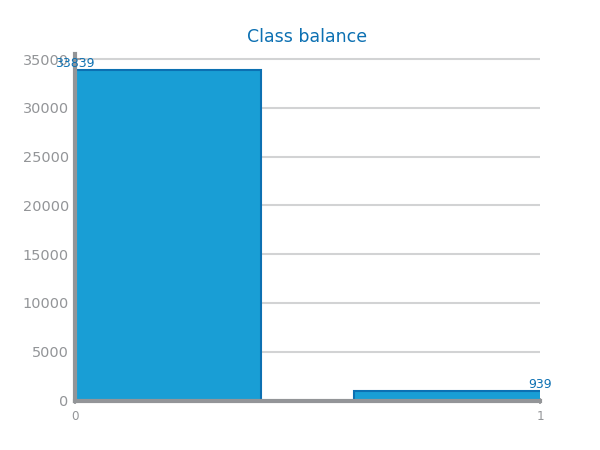
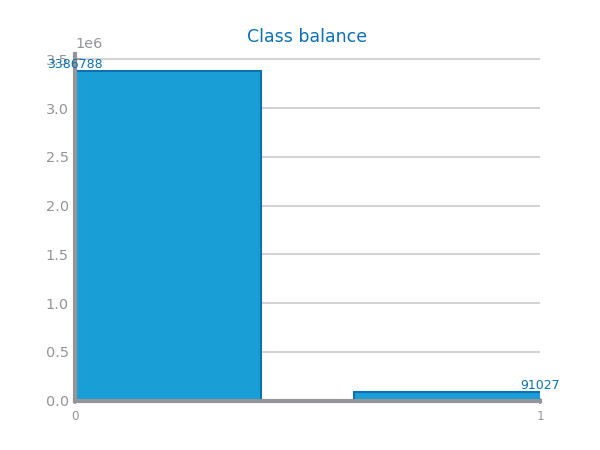
se a vida desse limões acho que o meu computador não conseguia fazer limonada

diff --git a/Data_Preparation/processing_balancing_security.py b/Data_Preparation/processing_balancing_security.py
@@ -6,7 +6,7 @@ from pandas import Series
 from imblearn.over_sampling import SMOTE
 
 file_tag = "class_ny_arrests"
-filename = f"Data/Scaling/train_{file_tag}_scaled_zscore_run6.csv"
+filename = f"Data/train_{file_tag}_scaled_zscore.csv"
 target = "CLASS"
 original: DataFrame = read_csv(filename, sep=",", decimal=".")
 
@@ -31,10 +31,11 @@ plot_bar_chart(
 savefig(f"./{file_tag}_class_balance.png")
 show()
 
+
 "apply oversampling"
 df_positives: Series = original[original[target] == positive_class]
 df_negatives: Series = original[original[target] == negative_class]
-
+'''
 df_pos_sample: DataFrame = DataFrame(
     df_positives.sample(len(df_negatives), replace=True)
 )
@@ -44,7 +45,7 @@ df_over.to_csv(f"Data/{file_tag}_oversampling.csv", index=False)
 print("Minority class=", positive_class, ":", len(df_pos_sample))
 print("Majority class=", negative_class, ":", len(df_negatives))
 print("Proportion:", round(len(df_pos_sample) / len(df_negatives), 2), ": 1")
-
+'''
 "apply undersampling"
 df_neg_sample: DataFrame = DataFrame(df_negatives.sample(len(df_positives)))
 df_under: DataFrame = concat([df_positives, df_neg_sample], axis=0)
@@ -58,7 +59,7 @@ print("Proportion:", round(len(df_positives) / len(df_neg_sample), 2), ": 1")
 #"""SMOTE"""
 #
 RANDOM_STATE = 42
-
+'''
 smote: SMOTE = SMOTE(sampling_strategy="minority", random_state=RANDOM_STATE)
 y = original.pop(target).values
 X: ndarray = original.values
@@ -76,3 +77,4 @@ print(
     ": 1",
 )
 print(df_smote.shape)
+'''

diff --git a/Classification/generating_tests_security.py b/Classification/generating_tests_security.py
@@ -4,18 +4,23 @@ from sklearn.model_selection import train_test_split
 # Load the dataset
 method_tag = "scaled_zscore" 
 file_tag = "class_ny_arrests"
-filename = f"Data/{file_tag}_{method_tag}.csv"  # Replace with your dataset's filename
-data = pd.read_csv(filename)
+#filename = f"Data/{file_tag}_{method_tag}.csv"  # Replace with your dataset's filename
+#data = pd.read_csv(filename)
 
 # Drop the JURISDICTION_CODE column
-data = data.drop(columns=["JURISDICTION_CODE"])
+#data = data.drop(columns=["JURISDICTION_CODE"])
 
 # Get only 10% of the data
-data = data.sample(frac=0.01, random_state=42)
+#data = data.sample(frac=0.05, random_state=42)
 
-# Split the data into 80% and 20%
-train_data, test_data = train_test_split(data, test_size=0.3, random_state=42)
+# Split the data into 70% and 30%
+#train_data, test_data = train_test_split(data, test_size=0.3, random_state=42)
 
+'''
+test_file = pd.read_csv(f"Data/test_{file_tag}_{method_tag}.csv")
+test_file = test_file.sample(frac=0.05, random_state=42)
+test_file.to_csv(f"Data/test_{file_tag}_{method_tag}.csv", index=False)
+'''
 # Save the splits to separate CSV files
-train_data.to_csv(f"Data/train_{file_tag}_{method_tag}.csv", index=False)
-test_data.to_csv(f"Data/test_{file_tag}_{method_tag}.csv", index=False)
+#train_data.to_csv(f"Data/train_{file_tag}_{method_tag}.csv", index=False)
+#test_data.to_csv(f"Data/test_{file_tag}_{method_tag}.csv", index=False)

diff --git a/Classification/processing_GB_security.py b/Classification/processing_GB_security.py
@@ -32,6 +32,7 @@ def gradient_boosting_study(
     for i in range(len(max_depths)):
         d: int = max_depths[i]
         values = {}
+        print(f"GB max_depth={d}")
         for lr in learning_rates:
             y_tst_values: list[float] = []
             for n in n_estimators:
@@ -65,7 +66,7 @@ def gradient_boosting_study(
 
 
 file_tag = "class_ny_arrests"
-train_filename = f"Data/train_{file_tag}_scaled_zscore.csv"
+train_filename = f"Data/{file_tag}_smote.csv"
 test_filename = f"Data/test_{file_tag}_scaled_zscore.csv"
 target = "CLASS"
 eval_metric = "accuracy"
